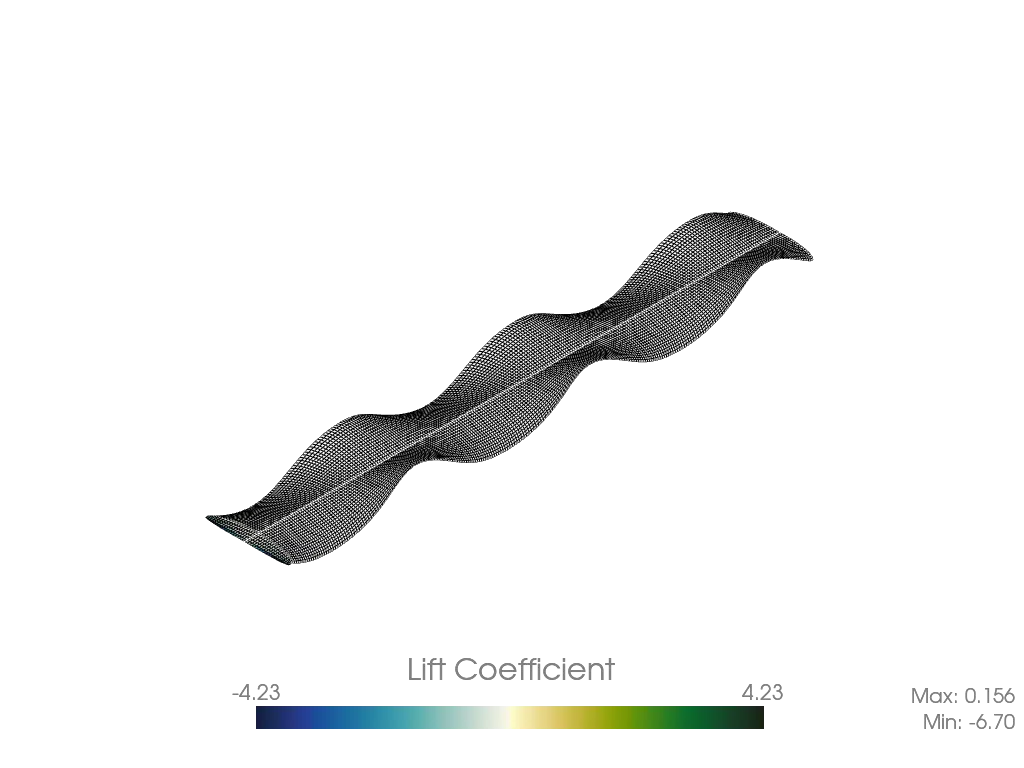
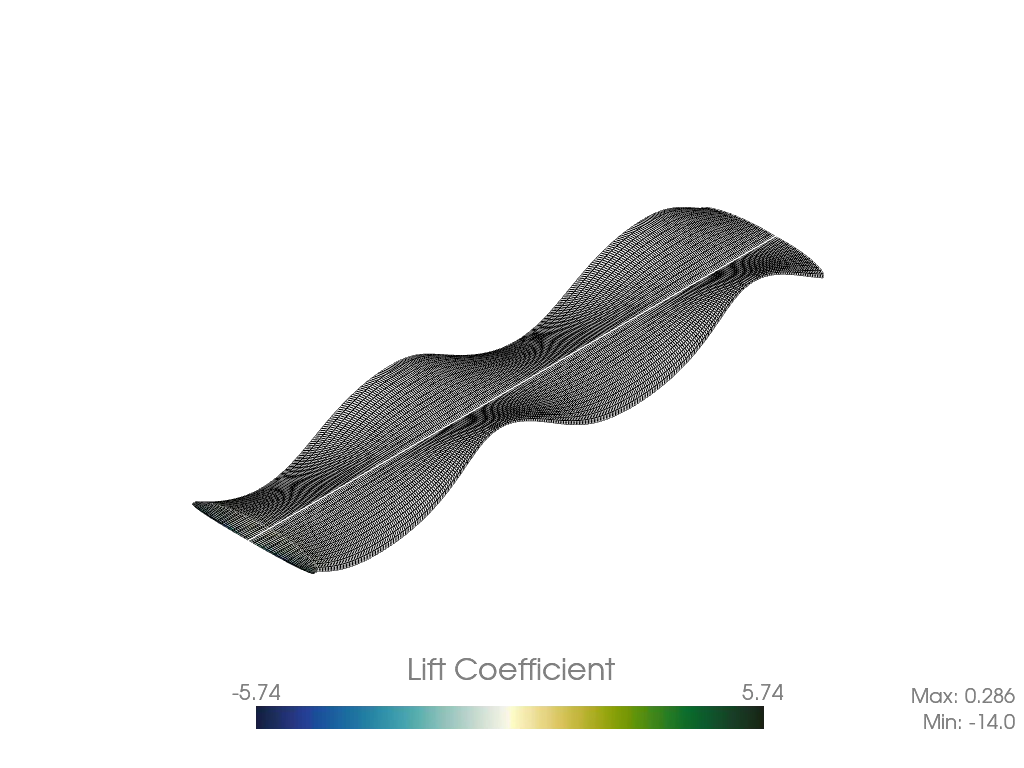
Validate with the converged solver directly
The convergence analysis already rebuilds and runs a solver at the
converged parameters, and the lift comparison only samples the final
flap, which is exactly the window that solver keeps loads for. Compare
that solver's results against the experimental data instead of
rebuilding the simulation at the converged values and running it a
second time, which halves the study's solve time and removes any chance
of the validation run drifting from the converged iteration. Gather the
simulated forces from the first results step onward, since the earlier
time steps hold no loads.

Update the tracked mesh render and lift plot with the outputs of the
new run.

diff --git a/validation/validation_study.py b/validation/validation_study.py
@@ -111,8 +111,8 @@ trailingEdgePoints_Wn_Ler = np.column_stack(
 # will be this number + 1 WingCrossSections per Wing half). These only define the
 # reference problem for the convergence analysis below, so they are set to the coarse
 # end of its sweep (3 spanwise sections gives an average Panel aspect ratio of about 4
-# at 3 chordwise Panels). The validation simulation is rebuilt with whatever values that
-# analysis finds are converged.
+# at 3 chordwise Panels). The validation results come from the solver that analysis runs
+# at whatever values it finds are converged.
 num_flaps = 1
 num_chordwise_panels = 3
 num_spanwise_sections = 3
@@ -358,9 +358,7 @@ reference_problem = ps.problems.UnsteadyProblem(
     only_final_results=True,
 )
 
-# Delete the extraneous pointer. Creating an UnsteadyProblem populates set-once
-# attributes on its Movement's Panels, so this Movement cannot be reused for the
-# validation problem, which is rebuilt below.
+# Delete the extraneous pointer.
 del validation_movement
 
 # Run the convergence analysis. This will run several simulations, modifying the wake
@@ -371,9 +369,9 @@ del validation_movement
 # refines it by resampling its edge curves into more WingCrossSections. Each iteration's
 # results are cached in a JSON file next to this script, so rerunning this study with an
 # existing cache skips the simulations it has already done. The analysis also rebuilds
-# and runs a solver at the converged parameters, which is how the converged spanwise
-# mesh is read back below. See the analyze_unsteady_convergence function docstring for
-# more details.
+# and runs a solver at the converged parameters, and that solver's results are the ones
+# compared to the experimental results below. See the analyze_unsteady_convergence
+# function docstring for more details.
 (
     converged_prescribed_wake,
     converged_num_flaps,
@@ -409,17 +407,6 @@ if (
         "The convergence analysis did not find a converged case within its bounds."
     )
 
-# The analysis reports the converged spanwise mesh as a Panel aspect ratio, so read the
-# number of WingCrossSections it resolved for the main Wing from the converged solver
-# and convert it to the number of spanwise sections.
-converged_num_spanwise_sections = (
-    len(converged_solver.steady_problems[0].airplanes[0].wings[0].wing_cross_sections)
-    - 1
-)
-
-# Delete the extraneous pointer.
-del converged_solver
-
 # Print and log the converged parameters.
 convergence_message = (
     "Converged parameters: prescribed wake = "
@@ -430,118 +417,13 @@ convergence_message = (
     + str(converged_panel_aspect_ratio)
     + ", chordwise Panels = "
     + str(converged_num_chordwise_panels)
-    + ", spanwise sections = "
-    + str(converged_num_spanwise_sections)
 )
 print("\n" + convergence_message)
 validation_logger.info(convergence_message)
 
-# Rebuild the Airplane, movements, and Movement at the converged values, in the same way
-# as above.
-validation_airplane = ps.geometry.airplane.Airplane(
-    wings=[
-        ps.geometry.wing.Wing.from_edge_points(
-            leadingEdgePoints_Wn_Ler=leadingEdgePoints_Wn_Ler,
-            trailingEdgePoints_Wn_Ler=trailingEdgePoints_Wn_Ler,
-            num_wing_cross_sections=converged_num_spanwise_sections + 1,
-            airfoil=ps.geometry.airfoil.Airfoil(
-                name="naca0012",
-            ),
-            name="Main Wing",
-            Ler_Gs_Cgs=(0.0, wing_midline_offset / 2, 0.0),
-            angles_Gs_to_Wn_ixyz=(validation_flap_angle_at_start, 0.0, 0.0),
-            symmetric=True,
-            mirror_only=False,
-            symmetryNormal_G=(0.0, 1.0, 0.0),
-            symmetryPoint_G_Cg=(0.0, 0.0, 0.0),
-            num_chordwise_panels=converged_num_chordwise_panels,
-            chordwise_spacing=chordwise_spacing,
-            tip_trim_fraction=tip_inset / half_span,
-        ),
-    ],
-    name="Validation Airplane",
-)
-
 # Delete the extraneous pointers.
 del leadingEdgePoints_Wn_Ler
 del trailingEdgePoints_Wn_Ler
-
-main_wing_cross_section_movements = []
-reflected_main_wing_cross_section_movements = []
-for i in range(converged_num_spanwise_sections + 1):
-    main_wing_cross_section_movements.append(
-        ps.movements.wing_cross_section_movement.WingCrossSectionMovement(
-            base_wing_cross_section=validation_airplane.wings[0].wing_cross_sections[i]
-        )
-    )
-    reflected_main_wing_cross_section_movements.append(
-        ps.movements.wing_cross_section_movement.WingCrossSectionMovement(
-            base_wing_cross_section=validation_airplane.wings[1].wing_cross_sections[i]
-        )
-    )
-
-main_wing_movement = ps.movements.wing_movement.WingMovement(
-    base_wing=validation_airplane.wings[0],
-    wing_cross_section_movements=main_wing_cross_section_movements,
-    ampAngles_Gs_to_Wn_ixyz=(validation_flap_angle_amplitude, 0.0, 0.0),
-    periodAngles_Gs_to_Wn_ixyz=(1 / validation_flapping_frequency, 0.0, 0.0),
-    phaseAngles_Gs_to_Wn_ixyz=(0.0, 0.0, 0.0),
-    spacingAngles_Gs_to_Wn_ixyz=(validation_flap_angle_shape, "sine", "sine"),
-)
-reflected_main_wing_movement = ps.movements.wing_movement.WingMovement(
-    base_wing=validation_airplane.wings[1],
-    wing_cross_section_movements=reflected_main_wing_cross_section_movements,
-    ampAngles_Gs_to_Wn_ixyz=(validation_flap_angle_amplitude, 0.0, 0.0),
-    periodAngles_Gs_to_Wn_ixyz=(1 / validation_flapping_frequency, 0.0, 0.0),
-    phaseAngles_Gs_to_Wn_ixyz=(0.0, 0.0, 0.0),
-    spacingAngles_Gs_to_Wn_ixyz=(validation_flap_angle_shape, "sine", "sine"),
-)
-
-# Delete the extraneous pointers.
-del main_wing_cross_section_movements
-del reflected_main_wing_cross_section_movements
-
-validation_airplane_movement = ps.movements.airplane_movement.AirplaneMovement(
-    base_airplane=validation_airplane,
-    wing_movements=[main_wing_movement, reflected_main_wing_movement],
-)
-
-# Delete the extraneous pointers.
-del validation_airplane
-del main_wing_movement
-del reflected_main_wing_movement
-
-validation_operating_point_movement = (
-    ps.movements.operating_point_movement.OperatingPointMovement(
-        base_operating_point=validation_operating_point
-    )
-)
-
-validation_movement = ps.movements.movement.Movement(
-    airplane_movements=[validation_airplane_movement],
-    operating_point_movement=validation_operating_point_movement,
-    num_cycles=converged_num_flaps,
-)
-
-# Delete the extraneous pointers.
-del validation_airplane_movement
-del validation_operating_point_movement
-
-# Define the UnsteadyProblem.
-validation_problem = ps.problems.UnsteadyProblem(
-    movement=validation_movement,
-    only_final_results=False,
-)
-
-# Define the UnsteadyRingVortexLatticeMethodSolver.
-validation_solver = (
-    ps.unsteady_ring_vortex_lattice_method.UnsteadyRingVortexLatticeMethodSolver(
-        unsteady_problem=validation_problem,
-    )
-)
-
-# Delete the extraneous pointer.
-del validation_problem
 
 # Define the position of the points of interest and the area of their rectangles. These
 # values were extracted by digitizing the figures in Yeo et al., 2011.
@@ -564,19 +446,16 @@ green_middle_area = 0.06565 * 0.015
 greenLeadingPointsXY_Wn_Ler = [0.01569, 0.1775]
 green_leading_area = 0.071 * 0.015
 
-# Run the validation solver using the converged wake state.
-validation_solver.run(prescribed_wake=converged_prescribed_wake)
+# The converged solver has already been run, and its results are compared to the
+# experimental results directly. It was run with only final results, so it holds loads
+# only for the time steps in the final flap, from its first results step onward. That is
+# the only flap the comparison uses.
+first_results_step = converged_solver.first_results_step
 
-# Extract the Movement's num_steps and delta_time attributes.
-validation_num_steps = validation_movement.num_steps
-validation_delta_time = validation_movement.delta_time
-
-# Create a variable to hold the time in seconds at each of the simulation's time steps.
-times = np.linspace(
-    0,
-    validation_num_steps * validation_delta_time,
-    validation_num_steps,
-    endpoint=False,
+# Create a variable to hold the time in seconds at each of the time steps with results.
+times = (
+    np.arange(first_results_step, converged_solver.num_steps)
+    * converged_solver.delta_time
 )
 
 # Discretize the time period of the final flap analyzed into 100 steps. Store this to a
@@ -775,13 +654,13 @@ for force_id, expNetForceZ_GP1 in enumerate(stackExpNetForcesZ_G):
 # component multiplied by negative one.
 exp_lifts = -1 * stackExpNetForcesZ_W
 
-# Get this solver's SteadyProblems' Airplanes.
+# Get the converged solver's SteadyProblems' Airplanes for the time steps with results.
 airplanes = []
-for steady_problem in validation_solver.steady_problems:
+for steady_problem in converged_solver.steady_problems[first_results_step:]:
     airplanes.append(steady_problem.airplanes[0])
 
-# Initialize a ndarray to hold the force at each time step (in wind axes).
-stackSimForces_W = np.zeros((3, validation_num_steps))
+# Initialize a ndarray to hold the force at each time step with results (in wind axes).
+stackSimForces_W = np.zeros((3, len(airplanes)), dtype=float)
 
 # Iterate through the time steps and populate the ndarray.
 for step, airplane in enumerate(airplanes):
@@ -908,7 +787,7 @@ print("\n" + lift_mean_absolute_error_message)
 validation_logger.info(lift_mean_absolute_error_message)
 
 ps.output.draw(
-    solver=validation_solver,
+    solver=converged_solver,
     show_wake_vortices=True,
     scalar_type="lift",
     save=True,
